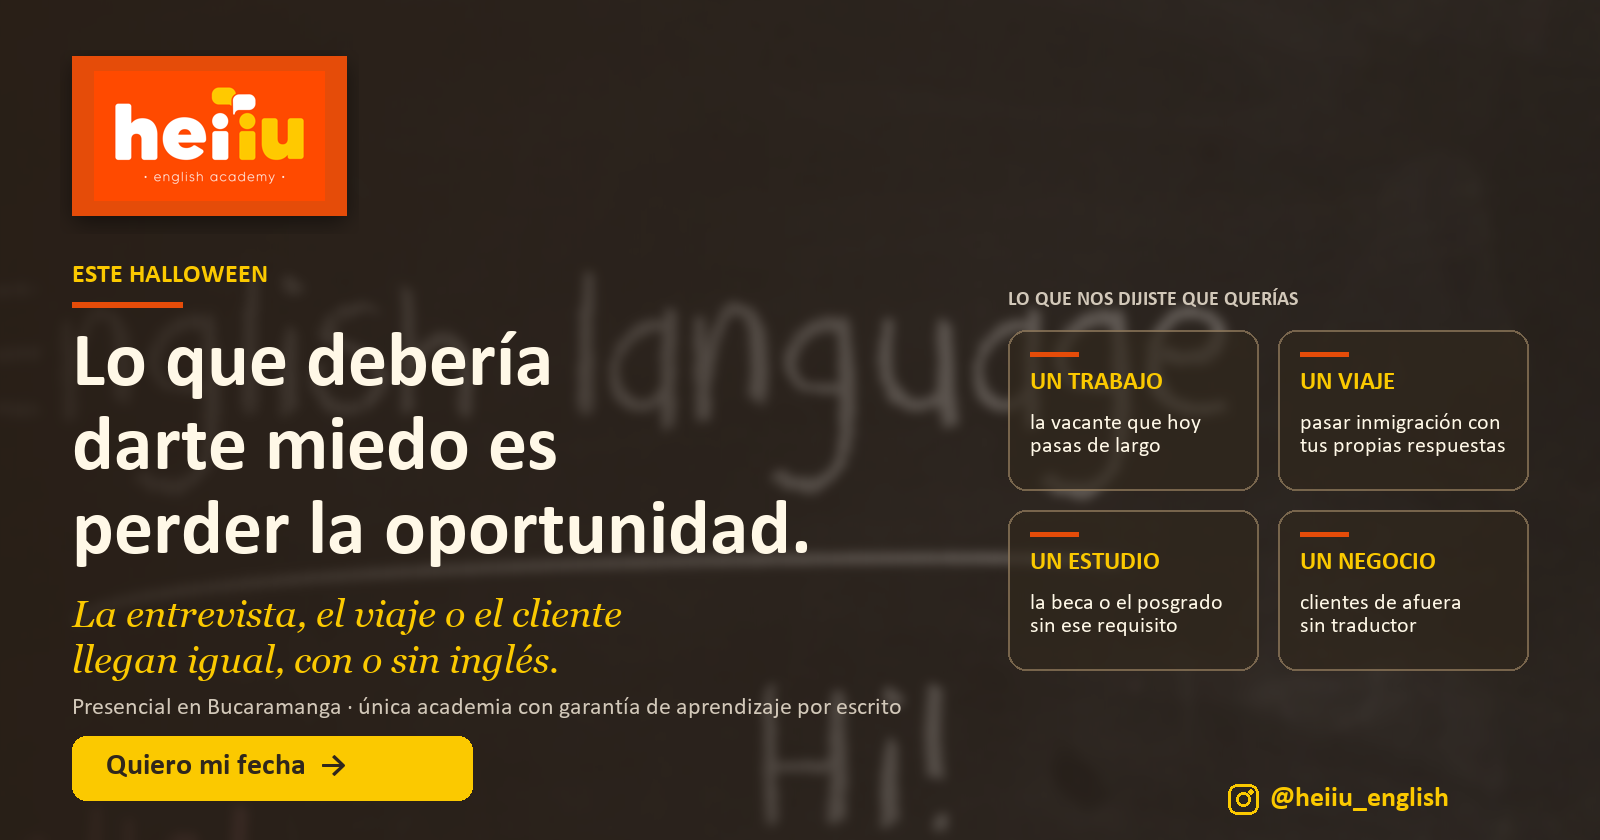
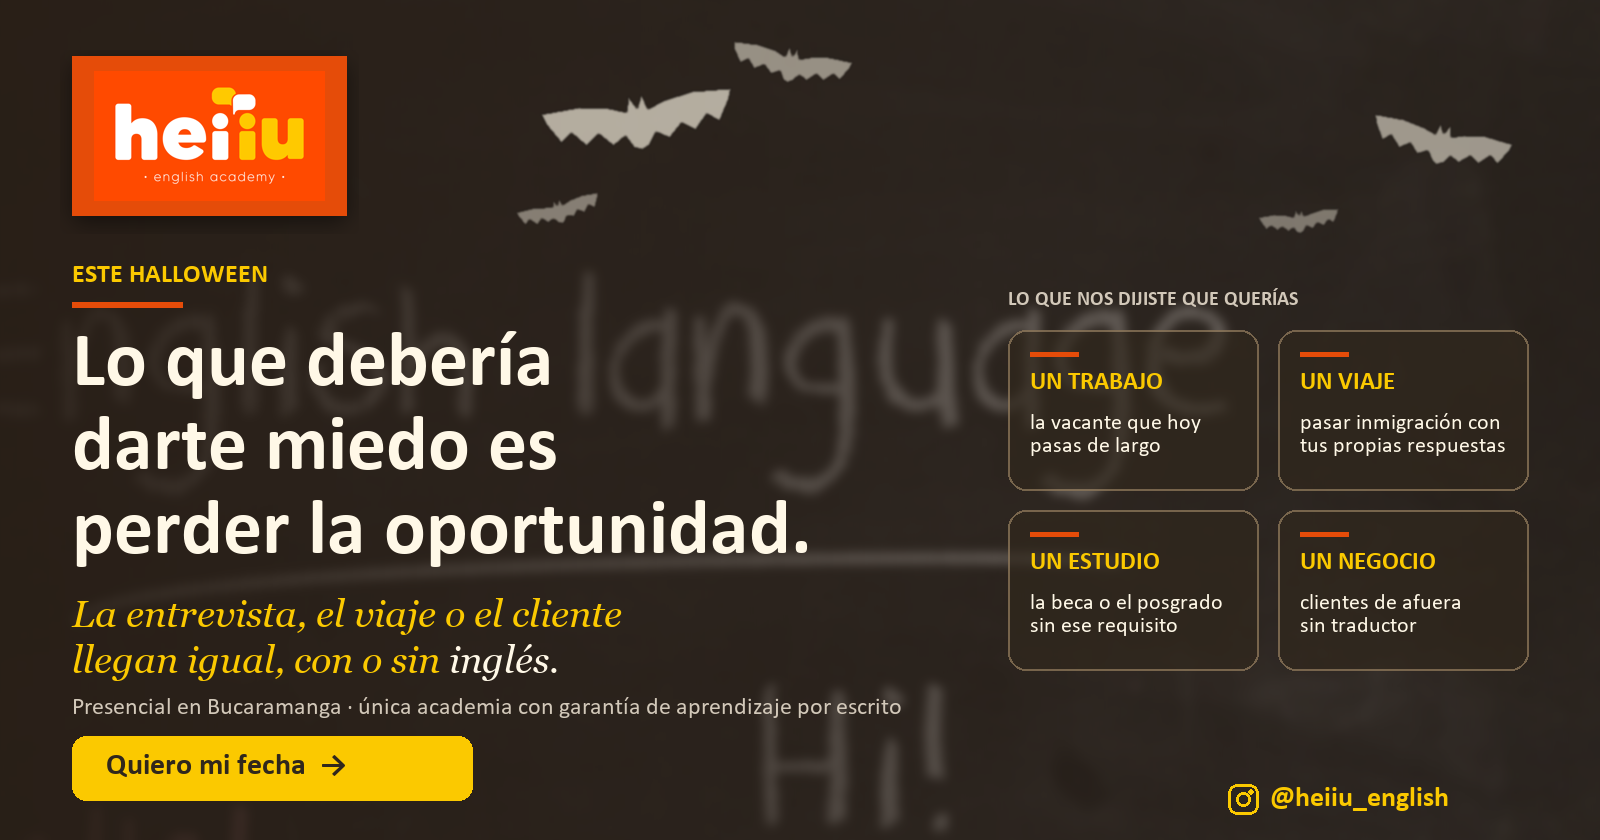
Piezas de reactivacion: murcielagos de tiza y la palabra ingles resaltada

diff --git a/generadores/comercial/gen_pieza_reactivacion_halloween.py b/generadores/comercial/gen_pieza_reactivacion_halloween.py
@@ -44,14 +44,30 @@ def pieza(key, cfg):
     sd.rounded_rectangle([12, 12, sh.width - 12, sh.height - 12], radius=10, fill=(0, 0, 0, 120)); sh = sh.filter(ImageFilter.GaussianBlur(10))
     img.paste(sh, (72 - 12, 56 - 6), sh); img.paste(pad, (72, 56), pad)
 
+    # guiño de temporada: murcielagos dibujados con tiza, sutiles
+    HALF = [(0,-22),(7,-36),(11,-20),(30,-27),(60,-32),(100,-30),(97,-20),(84,2),(72,-7),(58,8),(44,-2),(30,12),(16,4),(8,17),(0,21)]
+    BAT = HALF + [(-x, y) for x, y in reversed(HALF[:-1])]
+    bl = Image.new('RGBA', (W, H), (0, 0, 0, 0)); bd = ImageDraw.Draw(bl)
+    for (bx0, by0, sc, al, rot) in [(640, 130, 0.95, 165, -8), (790, 70, 0.6, 130, 10), (560, 215, 0.42, 110, -14), (1440, 150, 0.7, 140, 12), (1300, 225, 0.4, 100, -6)]:
+        import math
+        cr, sr = math.cos(math.radians(rot)), math.sin(math.radians(rot))
+        pts = [(bx0 + (x * cr - y * sr) * sc, by0 + (x * sr + y * cr) * sc) for x, y in BAT]
+        bd.polygon(pts, fill=(255, 248, 231, al))
+    bl = bl.filter(ImageFilter.GaussianBlur(1.2))
+    img = Image.alpha_composite(img.convert('RGBA'), bl).convert('RGB'); d = ImageDraw.Draw(img)
     d.text((72, 262), 'ESTE HALLOWEEN', font=font('calibrib.ttf', 26), fill=AMAR)
     d.rectangle([72, 302, 182, 307], fill=NAR)
     ts = cfg['tsize']; y = 326
+    def linea(x, y, line, fnt, base, hi):
+        # dibuja la linea y pinta la palabra "ingles" con el color hi
+        for i, w in enumerate(line.split(' ')):
+            col = hi if w.startswith('inglés') else base
+            d.text((x, y), w, font=fnt, fill=col); x += d.textlength(w + ' ', font=fnt)
     for line in cfg['titular']:
-        d.text((72, y), line, font=font('calibrib.ttf', ts), fill=CREMA); y += int(ts * 1.08)
+        linea(72, y, line, font('calibrib.ttf', ts), CREMA, AMAR); y += int(ts * 1.08)
     y += 14
     for line in cfg['bajada']:
-        d.text((72, y), line, font=font('georgiai.ttf', 38), fill=AMAR); y += 46
+        linea(72, y, line, font('georgiai.ttf', 38), AMAR, CREMA); y += 46
     d.text((72, 696), 'Presencial en Bucaramanga · única academia con garantía de aprendizaje por escrito', font=font('calibri.ttf', 24), fill=GRIS)
     bx, by, bw, bh = 72, 736, 400, 64
     d.rounded_rectangle([bx, by, bx + bw, by + bh], radius=14, fill=AMAR)
